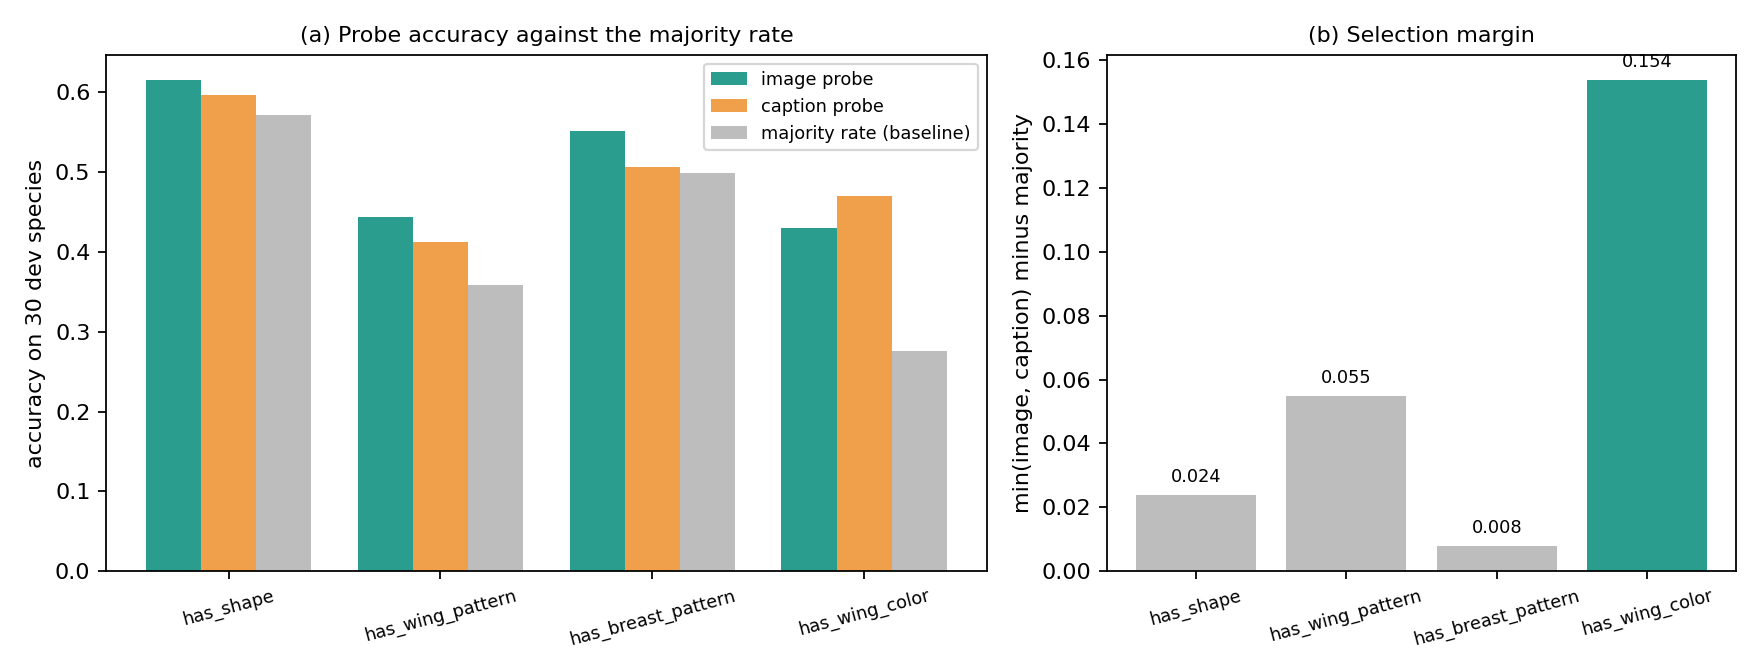
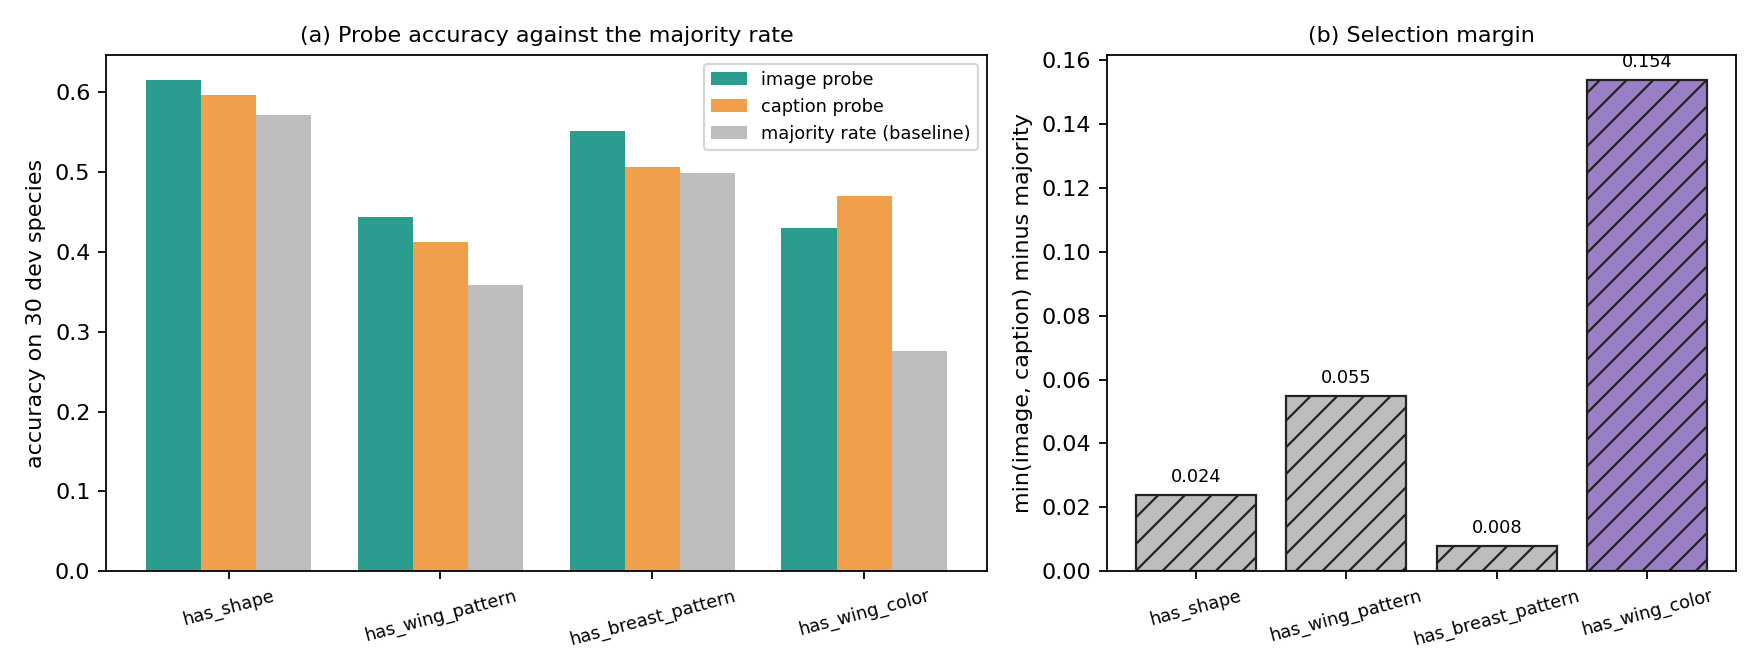
docs(v2): E0 report: reconcile the review-fix account; accuracy fixes
Claude-Session: https://claude.ai/code/session_01V6ud3G8RDSNWh9FEoUC5oY

Changed region(s): [[0.625, 0.0938, 0.9688, 0.875]]

diff --git a/docs/reports/assets/2026-10-29_aspect_eval_setup/build_figures.py b/docs/reports/assets/2026-10-29_aspect_eval_setup/build_figures.py
@@ -48,8 +48,8 @@ def cub_margins():
     a.bar([i + w for i in x], maj, w, label="majority rate (baseline)", color=GREY)
     a.set_xticks(list(x)); a.set_xticklabels(groups, rotation=15, fontsize=8); a.set_ylabel("accuracy on 30 dev species")
     a.legend(fontsize=8); a.set_title("(a) Probe accuracy against the majority rate", fontsize=10)
-    cols = [GREY, GREY, GREY, TEAL]
-    b.bar(groups, margin, color=cols)
+    cols = [GREY, GREY, GREY, PURPLE]
+    b.bar(groups, margin, color=cols, hatch="//", edgecolor="#222")
     for i, m in enumerate(margin):
         b.text(i, m + 0.004, f"{m:.3f}", ha="center", fontsize=8)
     b.set_xticks(range(4)); b.set_xticklabels(groups, rotation=15, fontsize=8)

diff --git a/docs/reports/auto/v2/2026-10-29_aspect_eval_setup.md b/docs/reports/auto/v2/2026-10-29_aspect_eval_setup.md
@@ -17,8 +17,9 @@ the same audited code. We built it, and four checks came out as follows.
 | CUB third aspect | `has_wing_color`, min(image, caption) accuracy minus majority rate = +0.154 | majority rate 0.276; the other three groups reach +0.008 to +0.055 |
 | Qwen3-VL-Embedding-2B port against the official pipeline | PASS on both stages after a preprocessing fix; image-to-caption top-1 agreement 48/50 on both, cosine minimum 0.9996 | the official `Qwen3VLEmbedder` in transformers 4.57.6 |
 
-Reviews found three real defects on the way (a NaN-to-finite rewrite inside the plan's own z-score code, gaps in the
-episode validator, and a Qwen image-resize mismatch). All three are fixed and pinned by tests. §5 lists what the stack
+Reviews found five issues on the way: three code defects (a NaN-to-finite rewrite inside the plan's own z-score code,
+the validator's missing third-aspect check, and a Qwen image-resize mismatch) and two test or design gaps (metric
+tests that could not fail, and a shared lambda grid extension). All five are fixed and pinned by tests. §5 lists what the stack
 now guarantees and §6 lists the caveats we carry forward.
 
 ## 1. What we set out to build
@@ -65,7 +66,9 @@ gain, and applied to the other half. A pick of 16 extends that half's grid once 
 ## 2. Spike reproduction
 
 Baseline: the stored numbers of the aspect spike ([aspect episode spike](2026-10-23_aspect_episode_spike.md)), on its
-own 4,096 stored episodes. We rebuilt the scoring path from scratch in the new modules and re-ran it on those episodes.
+own 4,096 stored episodes. The exact stored values are in
+`src/test/20261023_aspect_episode_spike/results/aspect_results.json` (swap 16.24755859375) and `run_aspect.log` line 24
+(SE_agree_b0.3: 10.95 pooled, swap 16.25); the spike report itself only says 16 to 18%. We rebuilt the scoring path from scratch in the new modules and re-ran it on those episodes.
 `reproduce_spike.py` printed, on the final code (re-run for this report, GPU free, exit 0):
 
 ```
@@ -84,8 +87,9 @@ REPRODUCED
 | SE at beta 0.3, swap | 16.25 | 16.25 | under 0.01 |
 
 The check ties out three different code paths: the cosine scorer, the fixed-beta agreement scorer and the swap metric.
-The script asserts a tolerance of 0.01 on each. The same numbers came out before and after the review fixes of §4, so
-those fixes changed only how non-finite rows behave and not any finite score. The four test files of the stack (episodes,
+The script asserts a tolerance of 0.01 on each. The same three numbers came out before and after the review fixes of §4. The script uses the fixed-beta scorers and
+does not exercise lambda cross-fitting, so this shows that the NaN fixes left finite fixed-beta scores unchanged; the
+cross-fitting path is covered by its own synthetic tests. The four test files of the stack (episodes,
 metrics, rule, scorers) pass together, 37 tests, including the mechanism tests that pin the point of the design: a
 scorer that ignores the condition has gain 0, an aspect finder that ignores the condition has gain 0 (and half the R@1 of the
 perfect conditional scorer), and an aspect-block code makes the agreement rule work where value-specific codes tie.
@@ -102,19 +106,21 @@ the stage (d) cache.
 
 Labelled share of the selection rows (6,451 paintings), after excluding the emotion catch-all "something else":
 
-| Aspect | Labelled share | Values present |
-|---|---:|---:|
-| emotion | 0.892 | 8 |
-| style | 1.000 | 27 |
-| genre (WikiArt, ArtGAN class file) | 0.815 | 10 |
+| Aspect | Labelled share | Values present | Eligible (at least 30 paintings, `eligible_values`) |
+|---|---:|---:|---:|
+| emotion | 0.892 | 8 | 8 |
+| style | 1.000 | 27 | 23 |
+| genre (WikiArt, ArtGAN class file) | 0.815 | 10 | 10 |
+
+Four styles have fewer than 30 selection paintings, so the spec's 23 styles are the eligible ones.
 
 Genre is missing for 18.5% of selection rows, so the third-aspect control restricts every role to labelled rows. The
 builder enforces this and the validator asserts it on every row of every episode (§4).
 
 ## 4. What the reviews found
 
-The reviews of Tasks 2 to 6 each found something that a happy-path test did not. We list them because the third and
-fourth are the kind that would have changed a paper number silently.
+The reviews of Tasks 2 to 6 each found something that a happy-path test did not. Items 1, 2 and 5 are code defects. Items 3 and 4 are test and design gaps. Item 1 is the kind that would have changed
+a paper number silently (an out-of-scope row counted as a hit or a tie), and item 5 would have changed Qwen features.
 
 1. **NaN became finite inside the plan's own code.** The plan's `zscore_rows` computed `where(std > 0, z, 0)`. A row
    with a NaN has a NaN std, `NaN > 0` is false, and the row became all zeros, a finite value. `agreement_weights` did
@@ -169,8 +175,7 @@ the Qwen preprocessing fix, which concerns only the Qwen encoder, so they are un
 
 ![CUB third aspect](../../assets/2026-10-29_aspect_eval_setup/cub_third_aspect.png)
 
-*Figure 2. (a) Probe accuracy against the majority rate for the four candidate groups. (b) The selection margin. Teal
-marks the pick.*
+*Figure 2. (a) Probe accuracy against the majority rate for the four candidate groups. (b) The selection margin. The hatched purple bar marks the pick.*
 
 We picked `has_wing_color`, so the CUB aspects are primary colour, bill shape and wing colour. Why it won: three of the
 groups are dominated by their majority class (has_breast_pattern's probes sit 0.008 above 0.499), so a probe adds
@@ -213,7 +218,8 @@ trivially. We fixed it before the final run. Anything that uses the cache as cos
 **Cause.** The official embedder calls `qwen_vl_utils.fetch_image` (patch factor 32, `smart_resize` with min_pixels
 4,096 and the given max_pixels, RGBA onto white, PIL default resampling) and then runs the processor with
 `do_resize=False`. Our port had used the processor's own resize, a slightly different grid and resampling. It was
-invisible on images under max_pixels (the CUB stage) and mattered once images were downscaled.
+small on images under max_pixels (CUB stage: image cosine min 0.9990, which became 1.0000 after the fix, and t2i
+47/50, which became 50/50) and larger once images were downscaled.
 
 **Fix.** `_qwen_smart_resize` and `_qwen_prepare_image` were copied from `qwen_vl_utils/vision_process.py` (cited in a
 comment, nothing imported from the target folder) and `encode_images` pre-resizes and calls the processor with
